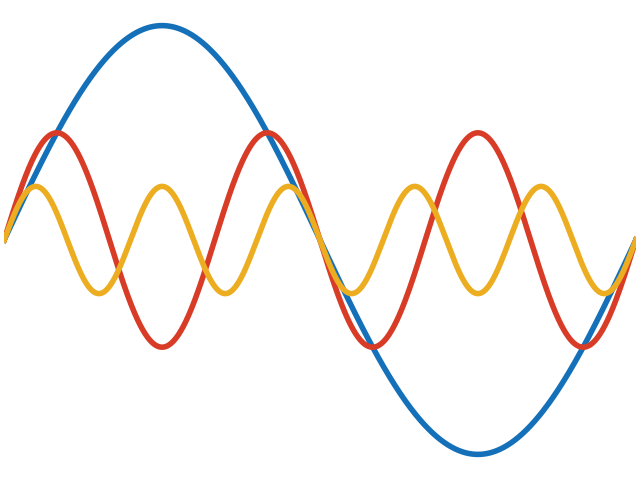
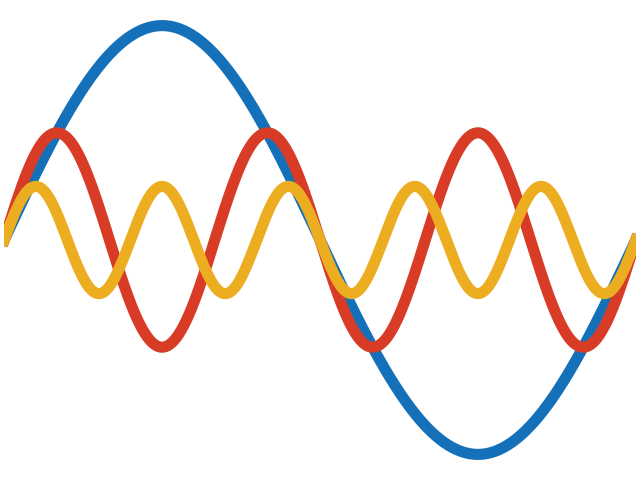
improve thumbnail

Changed region(s): [[0.0, 0.0312, 1.0, 0.9688]]

diff --git a/docs/resources/thumbnail_pyfar_audio_objects.py b/docs/resources/thumbnail_pyfar_audio_objects.py
@@ -9,6 +9,6 @@ signal = [[np.sin(np.linspace(0, 2*np.pi, 1024))],
           [np.sin(np.linspace(0, 10*np.pi, 1024)) * .25]]
 
 signal = pf.Signal(signal, 1024)
-ax = pf.plot.time(signal, linewidth=4)
+ax = pf.plot.time(signal, linewidth=8)
 plt.axis('off')
 plt.savefig('thumbnail_pyfar_audio_objects.png')
